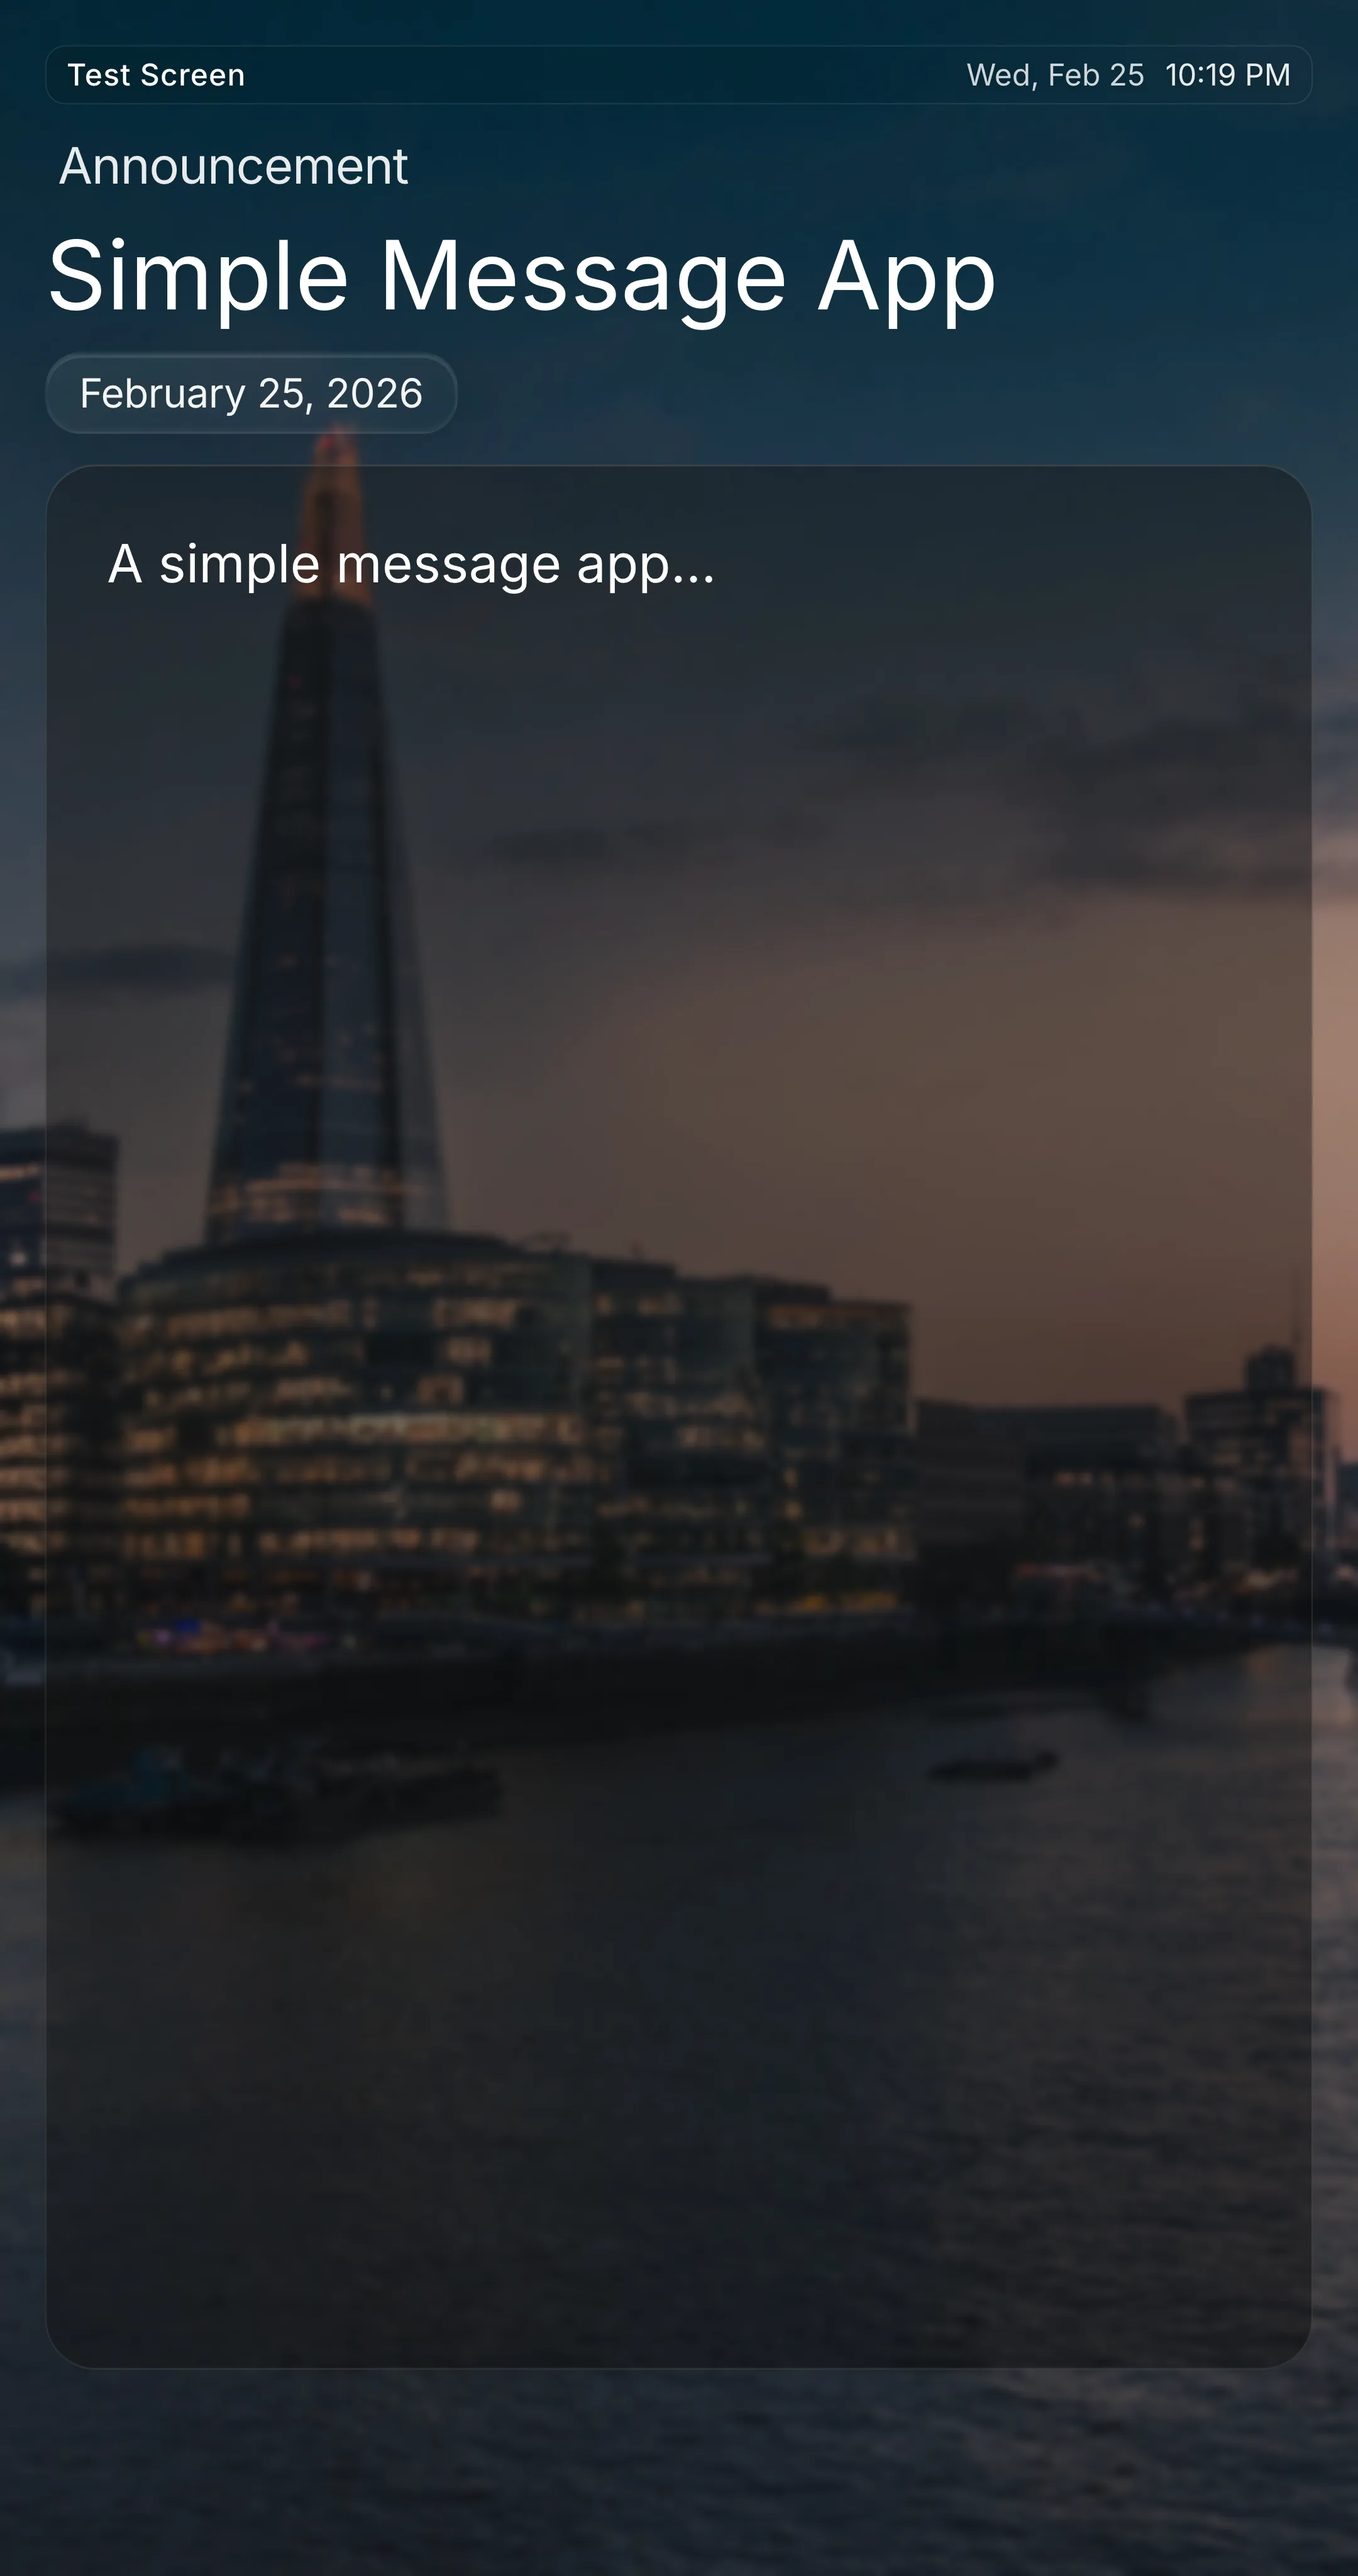
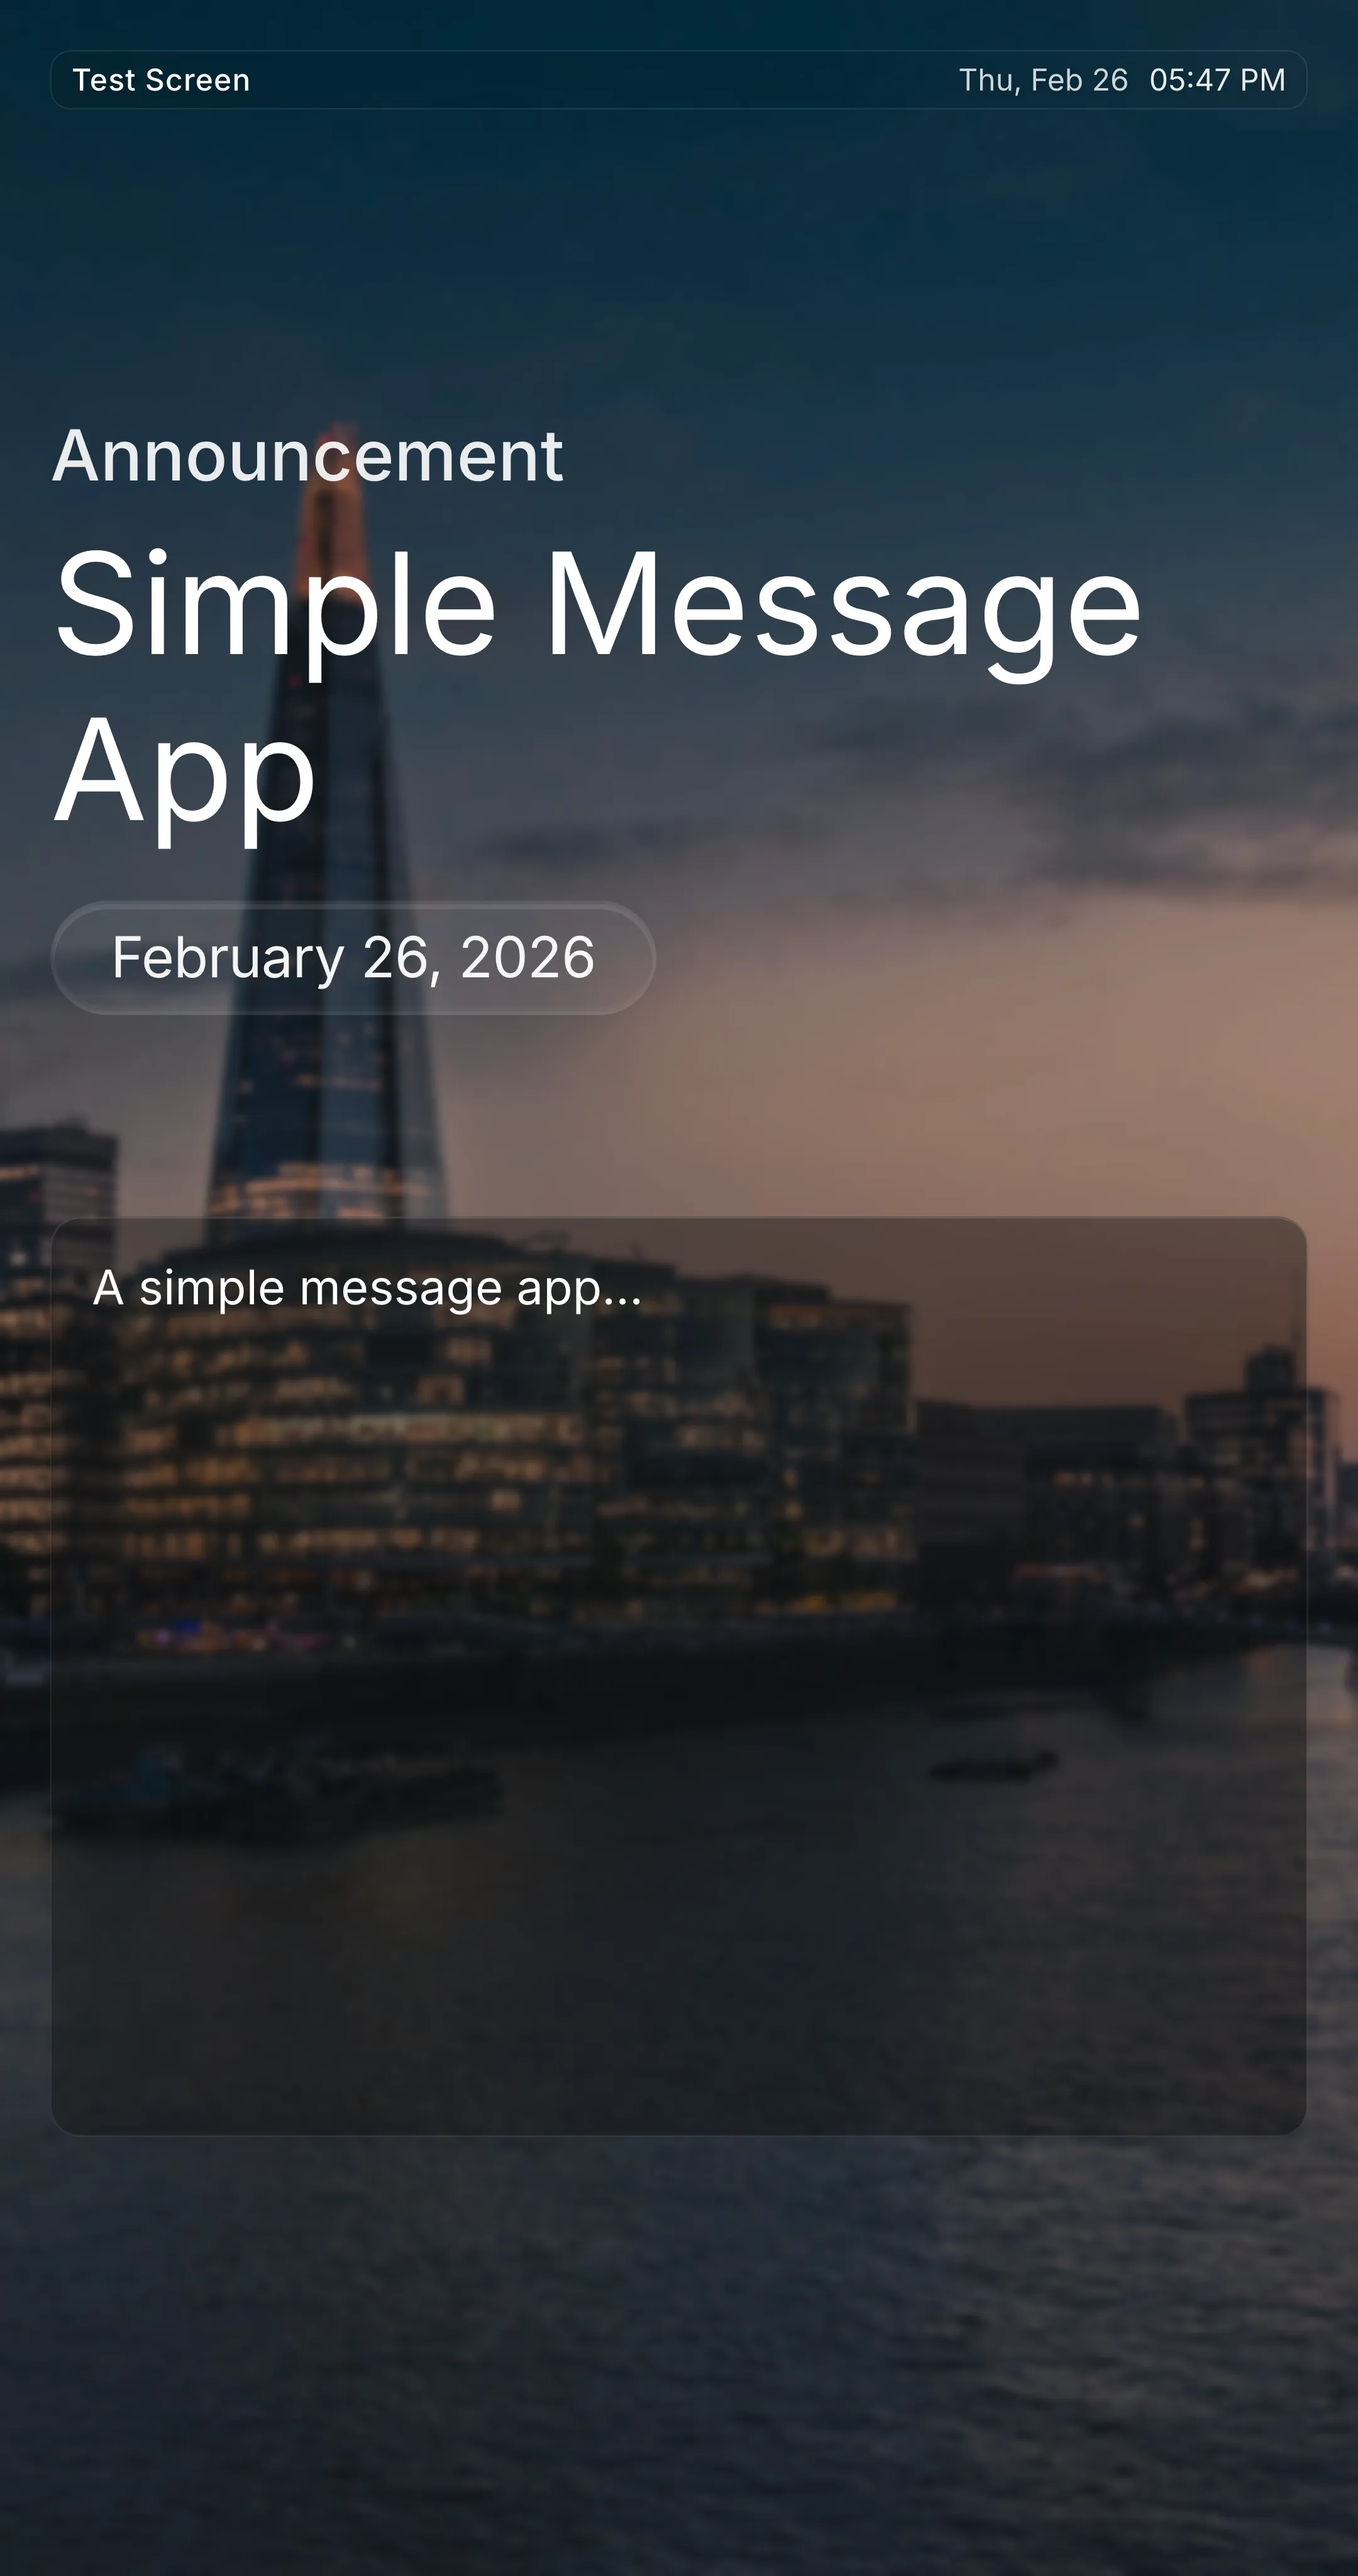
feat(simple-message-app): redesign portrait mode layout to match Figma
- Use flexbox with margin-based spacing instead of absolute positioning
- Update font sizes, weights, and line heights to match Figma design
- Set fixed height for message body card
- Update screenshots

diff --git a/edge-apps/simple-message-app/src/css/style.css b/edge-apps/simple-message-app/src/css/style.css
@@ -128,8 +128,8 @@ app-header {
   #app {
     display: flex;
     flex-direction: column;
-    padding: 1em;
-    gap: 1.5em;
+    padding: 1.25em;
+    padding-top: 1.25em;
   }
 
   app-header {
@@ -140,34 +140,45 @@ app-header {
   #left-content {
     position: static;
     width: 100%;
-    flex: 0 0 auto;
-    justify-content: flex-start;
+    margin-top: 15em;
+    gap: 1em;
   }
 
   #announcement-label {
-    font-size: 2.5em;
-    padding-left: 0.25em;
+    font-size: 3.5em;
+    font-weight: 500;
+    line-height: 1.25;
+    letter-spacing: normal;
+    padding-left: 0;
   }
 
   #message-header {
-    font-size: 4.75em;
+    font-size: 7em;
+    font-weight: 400;
+    line-height: 1.179;
   }
 
   #date-badge {
-    font-size: 2em;
+    font-size: 2.8125em;
+    font-weight: 400;
+    line-height: 1.311;
+    padding: 0.5em 1em;
+    border-radius: 1.05em;
+    margin-top: 0.5em;
   }
 
   #message-body-card {
     position: static;
     width: 100%;
-    flex: 1;
-    height: auto;
-    border-radius: 2.5em;
-    padding: 3em;
+    margin-top: 10em;
+    height: 45.75em;
+    border-radius: 1.5em;
+    padding: 2em;
   }
 
   #message-body {
-    font-size: 2.625em;
-    line-height: 1.417;
+    font-size: 2.375em;
+    font-weight: 300;
+    line-height: 1.25;
   }
 }
